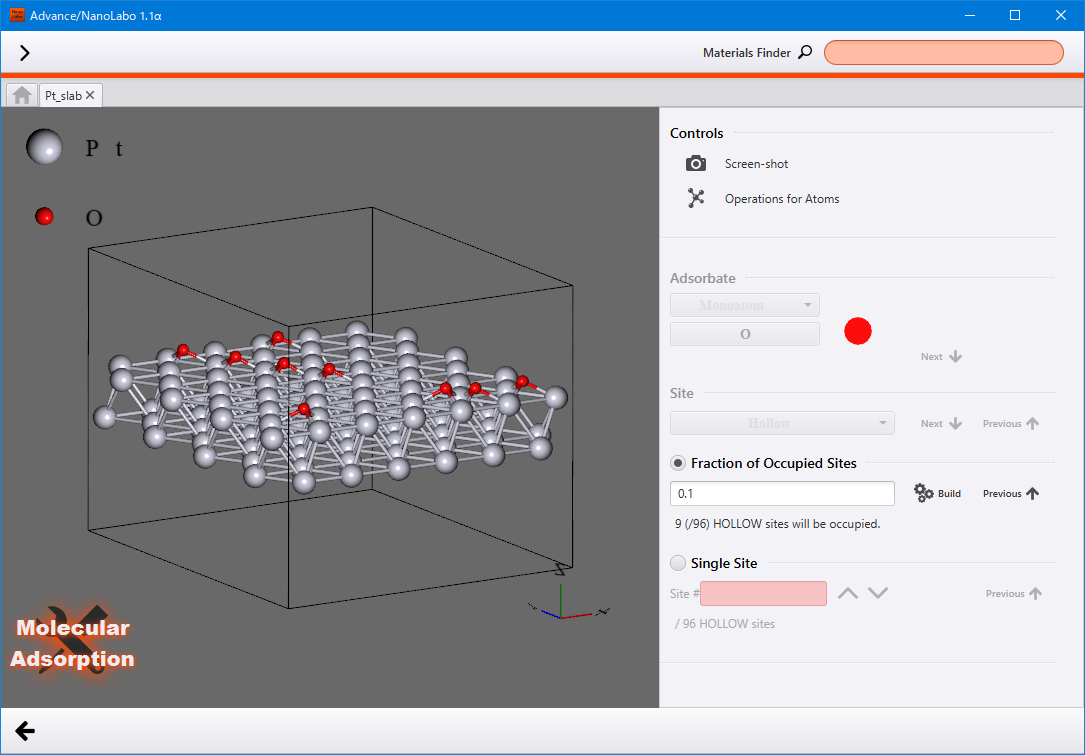
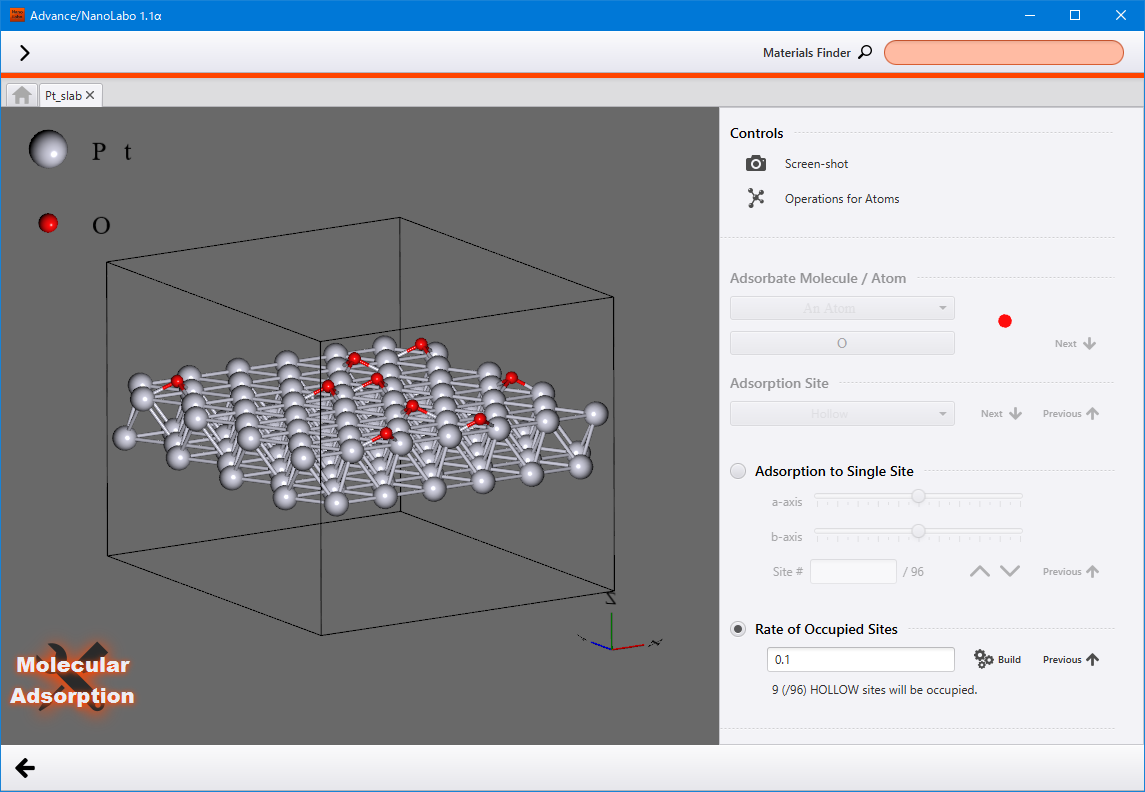
modify modeler

diff --git a/docs/source/usage/modeler.rst b/docs/source/usage/modeler.rst
@@ -63,16 +63,14 @@
 :guilabel:`Crystal` タブの :guilabel:`Conversion of Cell Type` の各 :guilabel:`Build` ボタンをクリックすると、変換が行われます。
 
 - Finding a Primitive Cell
-   基本単位胞を探索し、変換します。
-
 - Finding a Standard Cell
-   慣用単位胞へ変換します。
+   基本単位胞・慣用単位胞を自動的に決定し、相互に変換します。
 
    .. image:: /img/primitive_standard.svg
 
 - Hexagonal -> Orthorhombic
 - Orthorhombic -> Hexagonal
-   六方晶と直方晶（斜方晶）を相互に変換します。
+   六方晶・直方晶（斜方晶）を相互に変換します。
 
    .. image:: /img/hexa_ortho.svg
 
@@ -123,7 +121,7 @@
 分子充填
 ================
 
-モデルの空いている領域に、分子を充填します。
+モデルの空いている領域に、小分子を充填します。
 
 分子を充填できる空間を持ったモデルを用意し、:guilabel:`Molecule` タブの :guilabel:`Packing Molecules` にある :guilabel:`Start Modeling` をクリックしてください。分子充填を行う画面が表示されます。
 
@@ -151,9 +149,13 @@
 
 スラブモデルを用意し、:guilabel:`Molecule` タブの :guilabel:`Molecular Adsorption onto Slab` にある :guilabel:`Start Modeling` をクリックしてください。分子吸着を行う画面が表示されます。
 
-:guilabel:`Adsorbate` （吸着する分子）、 :guilabel:`Site` （吸着サイトの種類）、 :guilabel:`Fraction of Occupied Sites` （分子を吸着するサイトの割合）を順に設定してください。 :guilabel:`Next` で次の項目、 :guilabel:`Previous` で前の項目の設定に移ります。設定が終わったら、 :guilabel:`Build` をクリックすると、分子を吸着した構造がビューワー内に表示されます。そのまま再度 :guilabel:`Build` をクリックすると、同じ設定で異なる構造が表示されます。
+:guilabel:`Adsorbate Molecule / Atom` （吸着する分子）、 :guilabel:`Adsorption Site` （吸着サイトの種類）を順に設定してください。 :guilabel:`Next` で次の項目、 :guilabel:`Previous` で前の項目の設定に移ります。
 
-また、 :guilabel:`Fraction of Occupied Sites` の代わりに :guilabel:`Single Site` を選択すると、単一の吸着サイトを選択して分子を吸着させることができます。サイトには通し番号が振られていますので、番号を入力するか、 |increment| |decrement| ボタンをクリックして指定してください。
+吸着の方法には、:guilabel:`Adsorption to Single Site` （選択した単一サイトへの吸着）と、 :guilabel:`Rate of Occupied Sites` （サイトの占有率を指定した吸着）があります。使用したい方を選択してください。
+
+:guilabel:`Adsorption to Single Site` では、a軸・b軸方向の位置をスライダーで変更するか、サイトに振られた通し番号を使って、サイトを指定してください。
+
+:guilabel:`Rate of Occupied Sites` では、占有率を入力して :guilabel:`Build` をクリックすると、分子を吸着した構造がビューワー内に表示されます。そのまま再度 :guilabel:`Build` をクリックすると、同じ設定で異なる構造が表示されます。
 
 左下の戻るボタン |back| をクリックすると、ビューワーに表示されている構造が確定され、モデラ―画面に戻ります。
 

diff --git a/docs/source/install.rst b/docs/source/install.rst
@@ -10,4 +10,5 @@
    install/requirement
    install/windows
    install/linux
+   install/mac
    install/purchase
